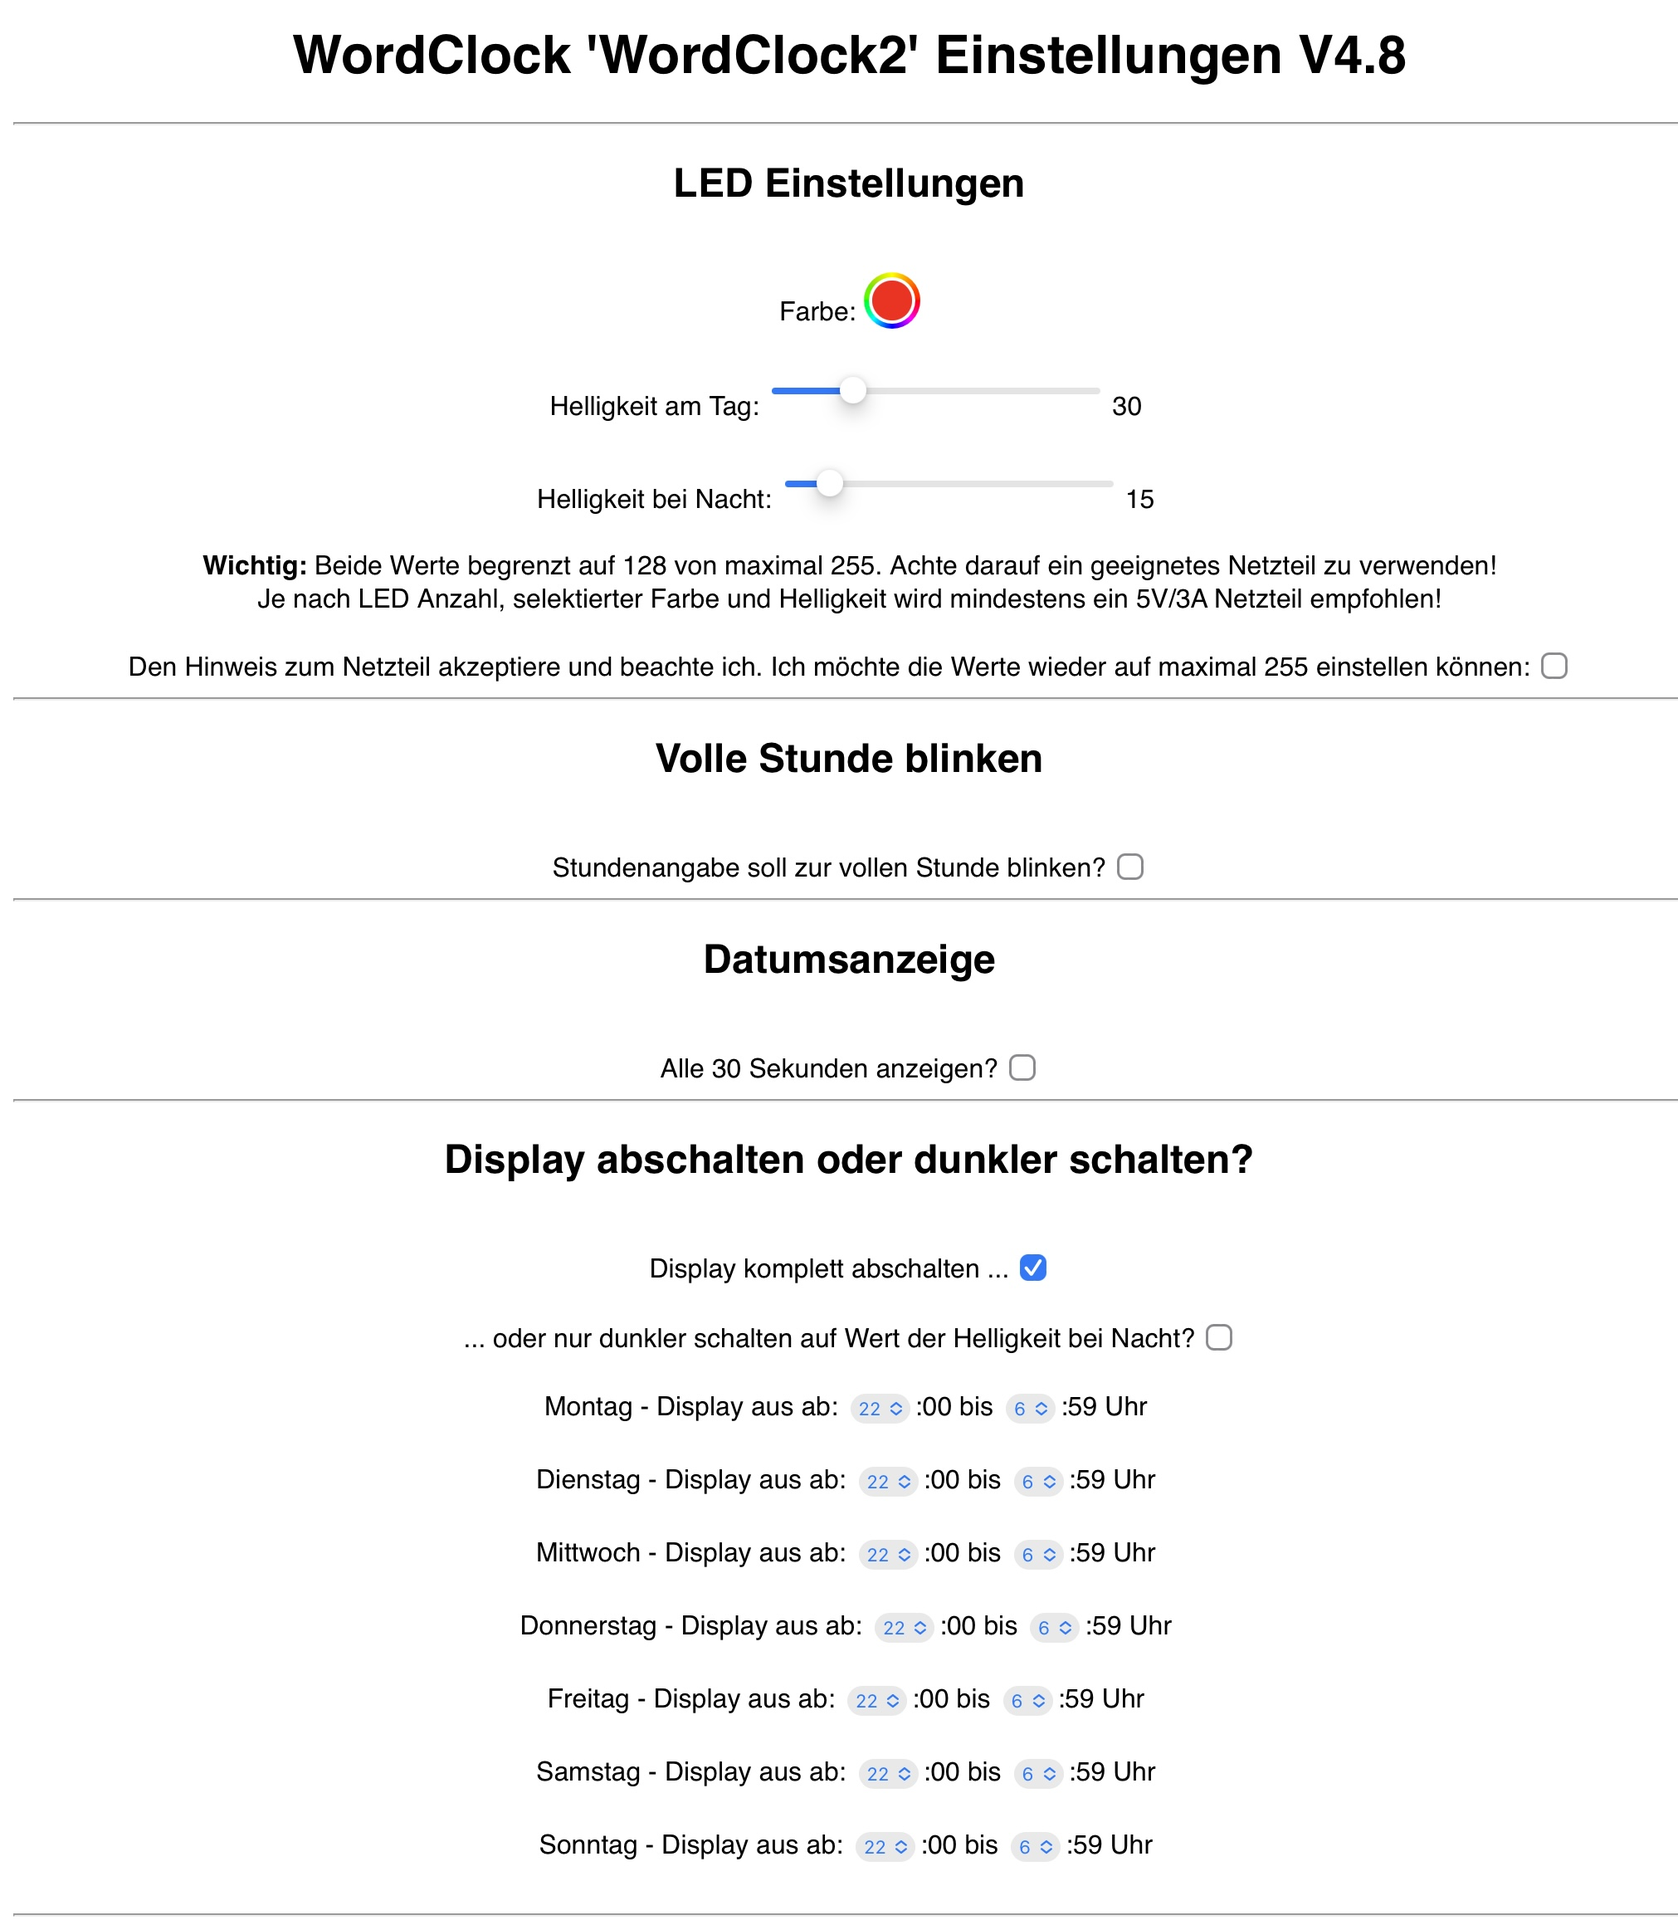
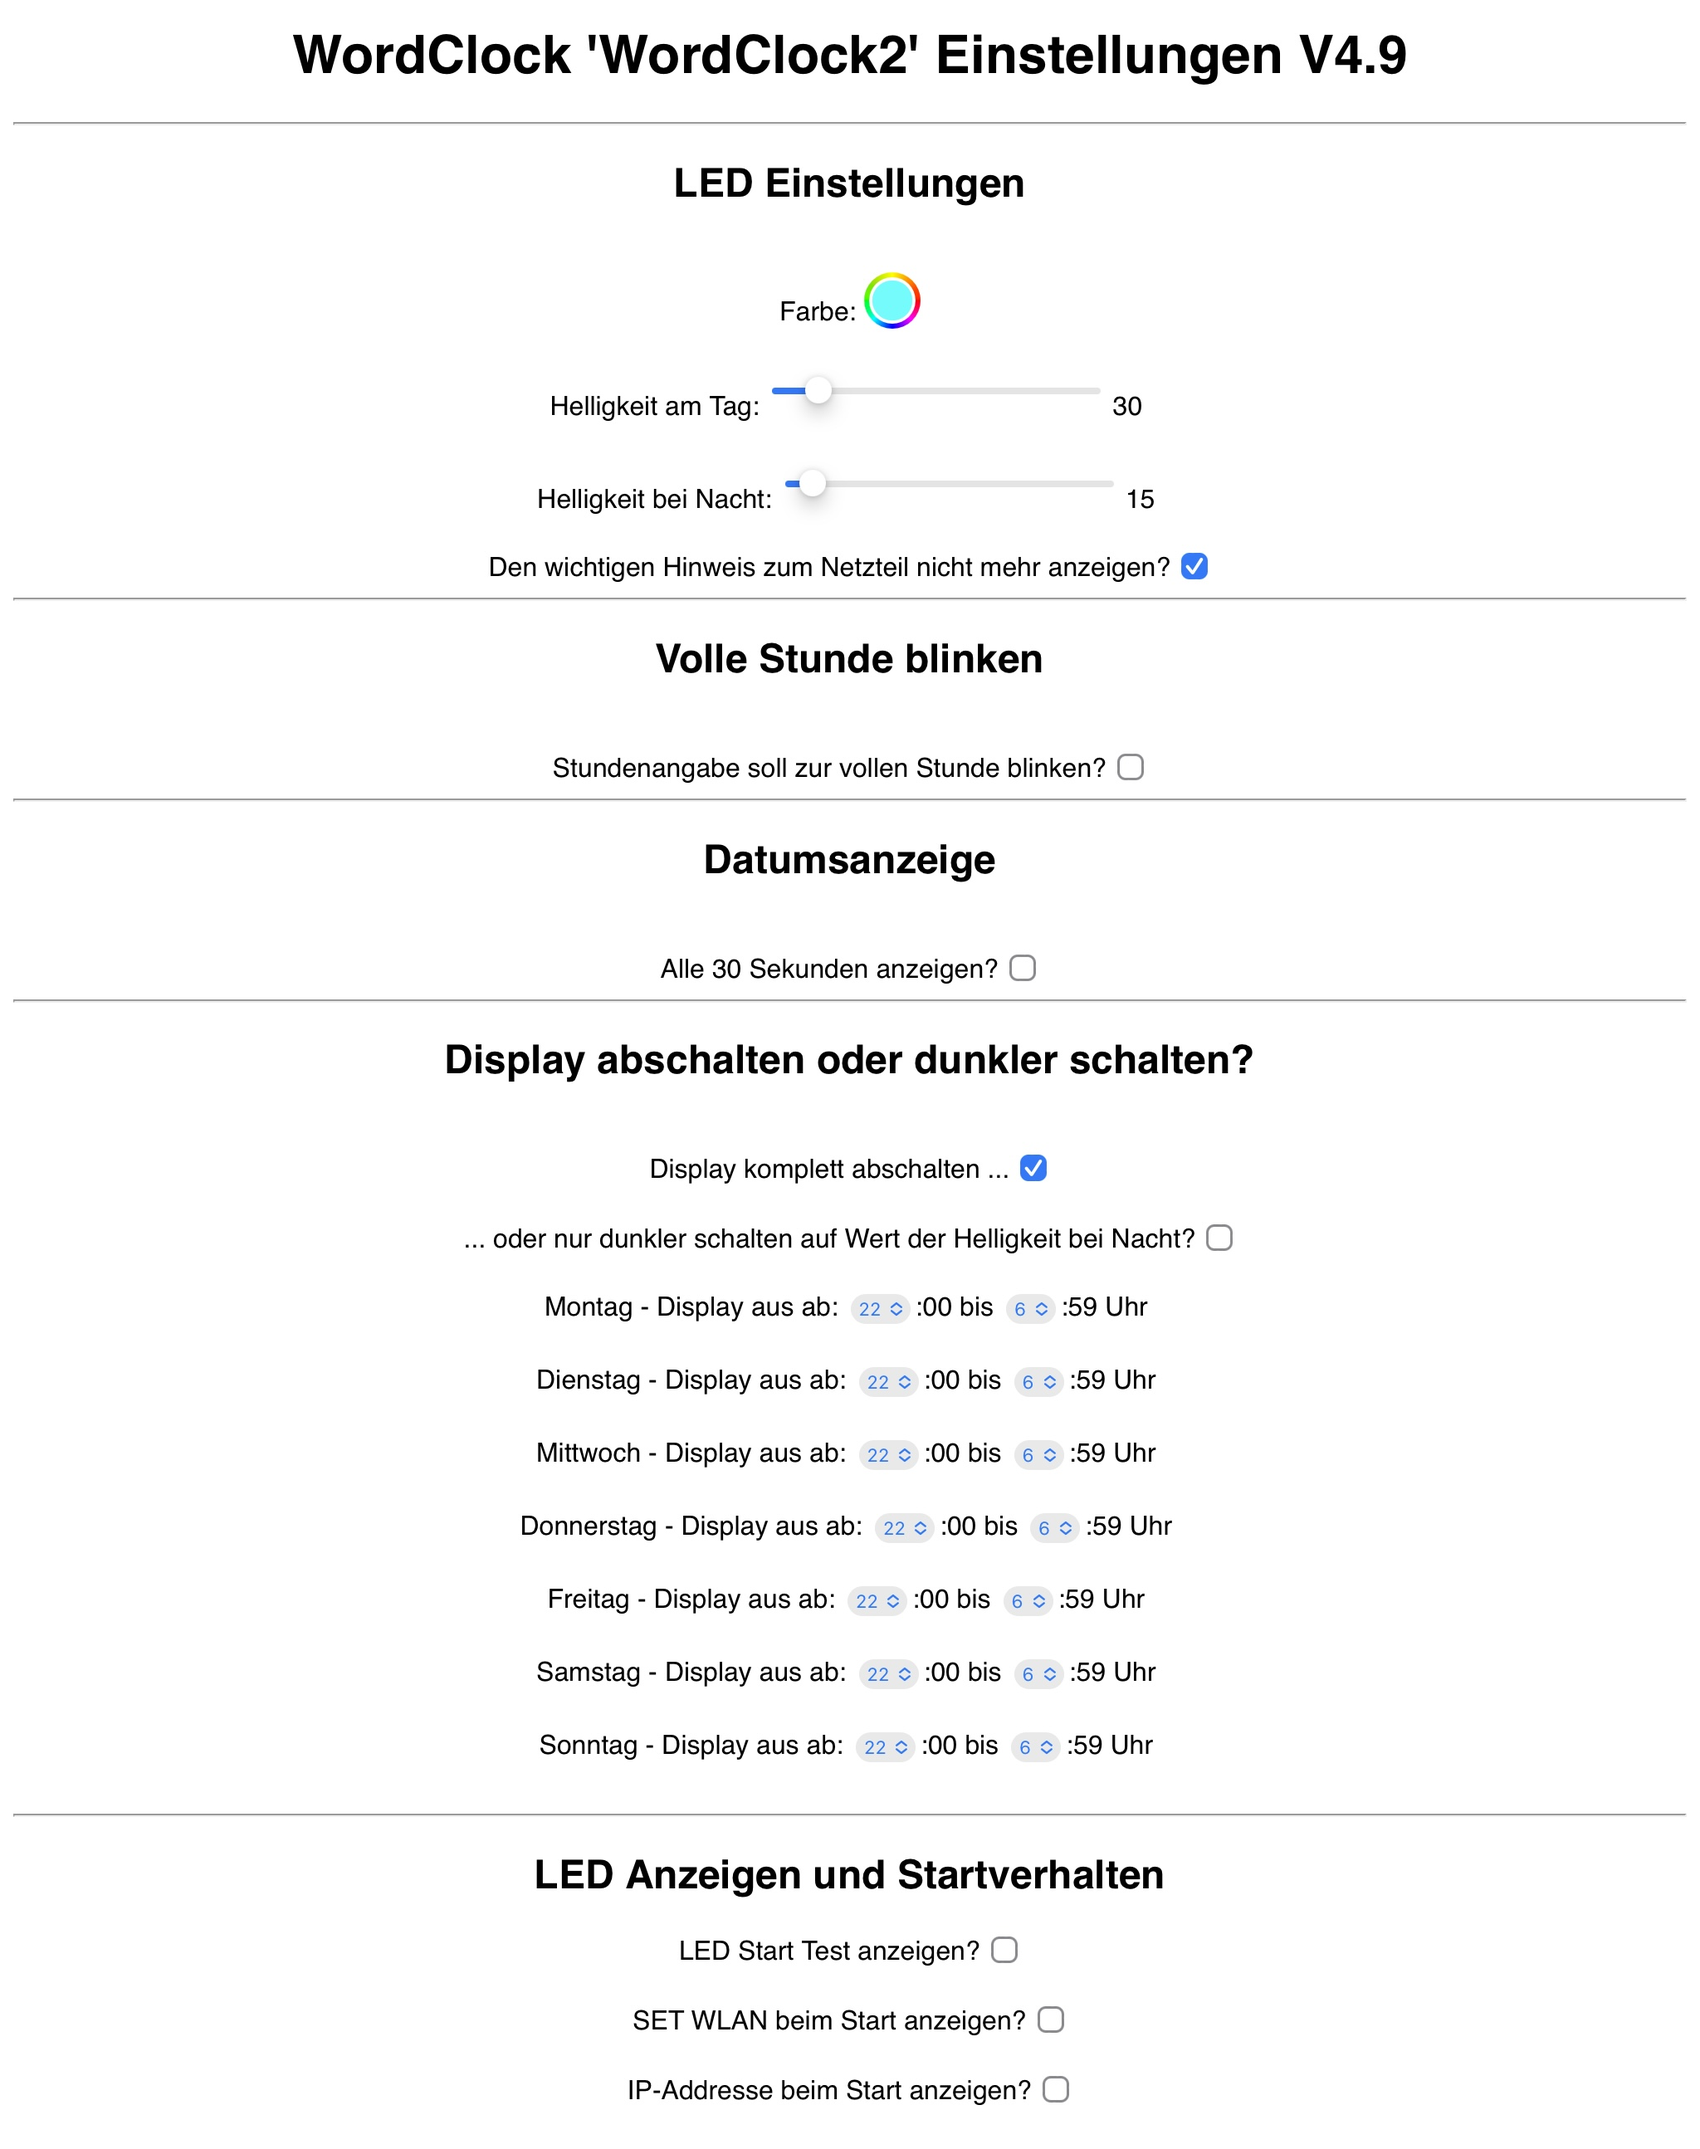
V4.9
Added a radio button selector to switch between 2 rainbow color modes. Added a URL to get to the Wordclock repository page on GitHub.

Changed region(s): [[0.0, 0.4358, 1.0, 1.0], [0.0623, 0.0, 0.9347, 0.4047]]

diff --git a/README.md b/README.md
@@ -39,7 +39,7 @@ Time here is 07:43 or 19:43 o'clock
 - A time span can be selected to turn off the LEDs fully or reduce their intensity for night time usage for each day seperatelly
 - Updates of the software can be done with the web portal as well to avoid connecting the device to Arduino IDE again. The needed .bin file is included
 - During startup you can choose if the following functions should be displayed: IP-address as scrolling text, the SET WLAN text and/or the LED test function
-- The LED color can be shown as randomized 'rainbow' color changed every new minute 
+- The LED color can be shown as randomized 'rainbow' color changed every new minute or the separate words can be shown in a static rainbow color
 - You can choose if the minute LEDs in the corners should be rotated in clockwise or anti clockwise direction
 - The in the internal WifiManager stored WiFi settings can be set to default on request to switch to a new WiFi router afterwards
 - In case the WiFi is no longer available the device will reset the WiFi settings automatically after 240s to avoid flashing with Arduino IDE again
